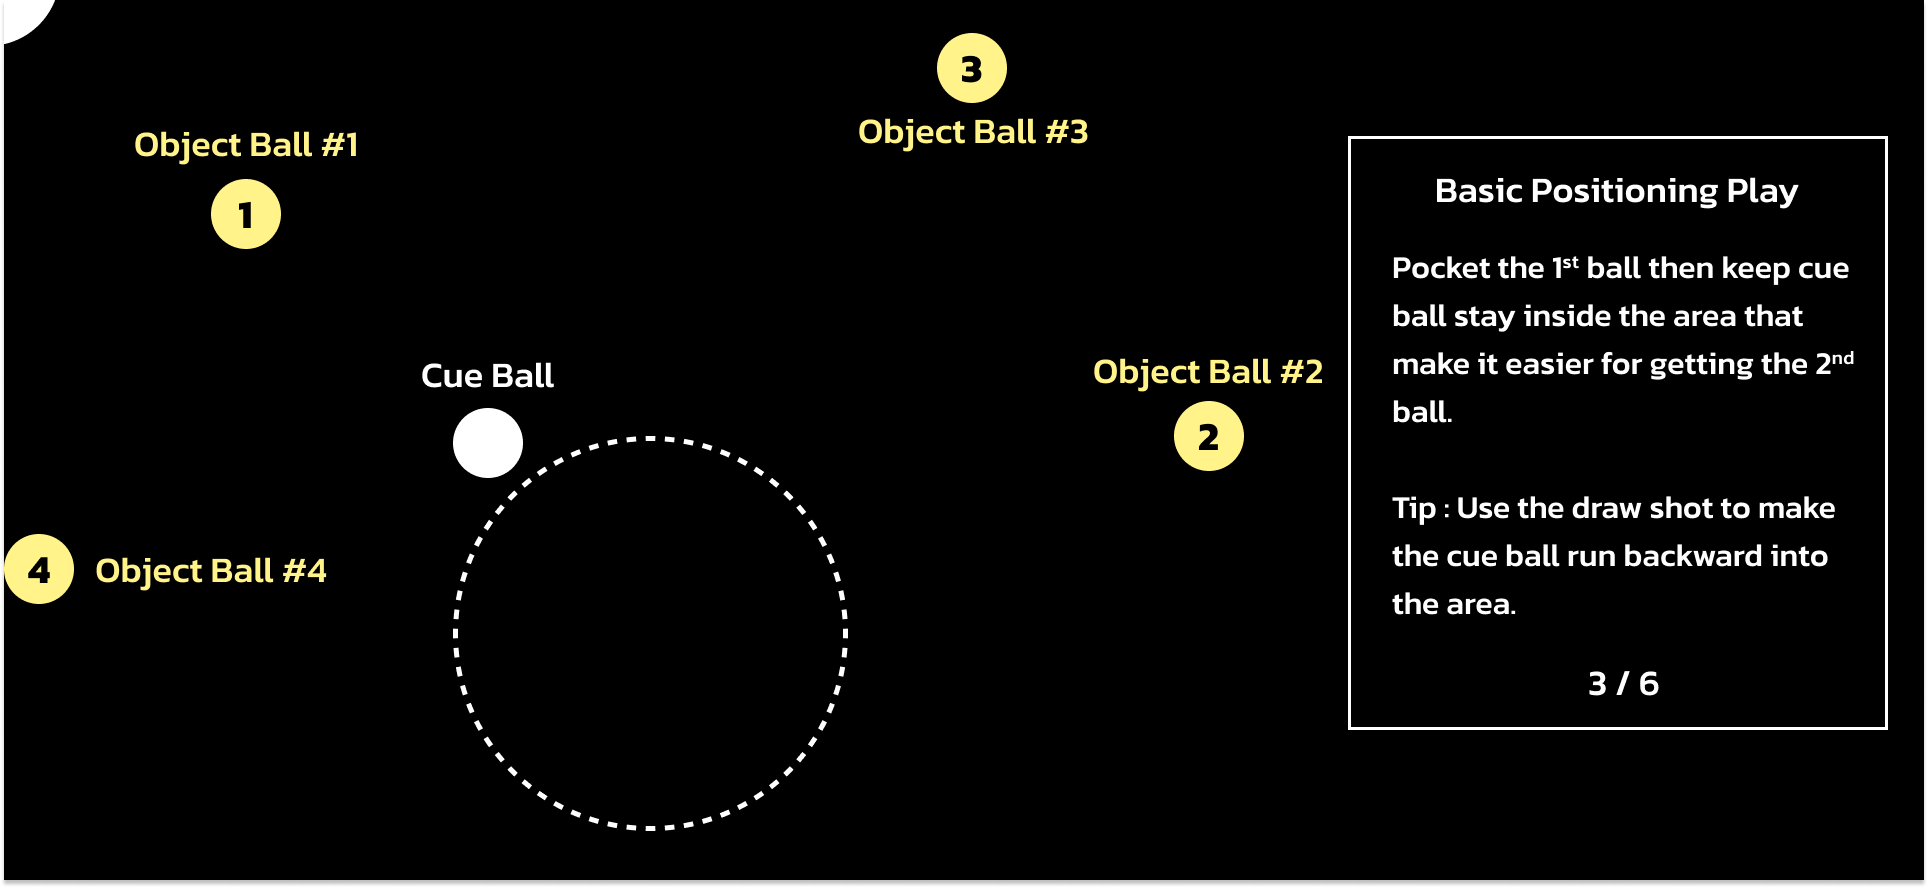
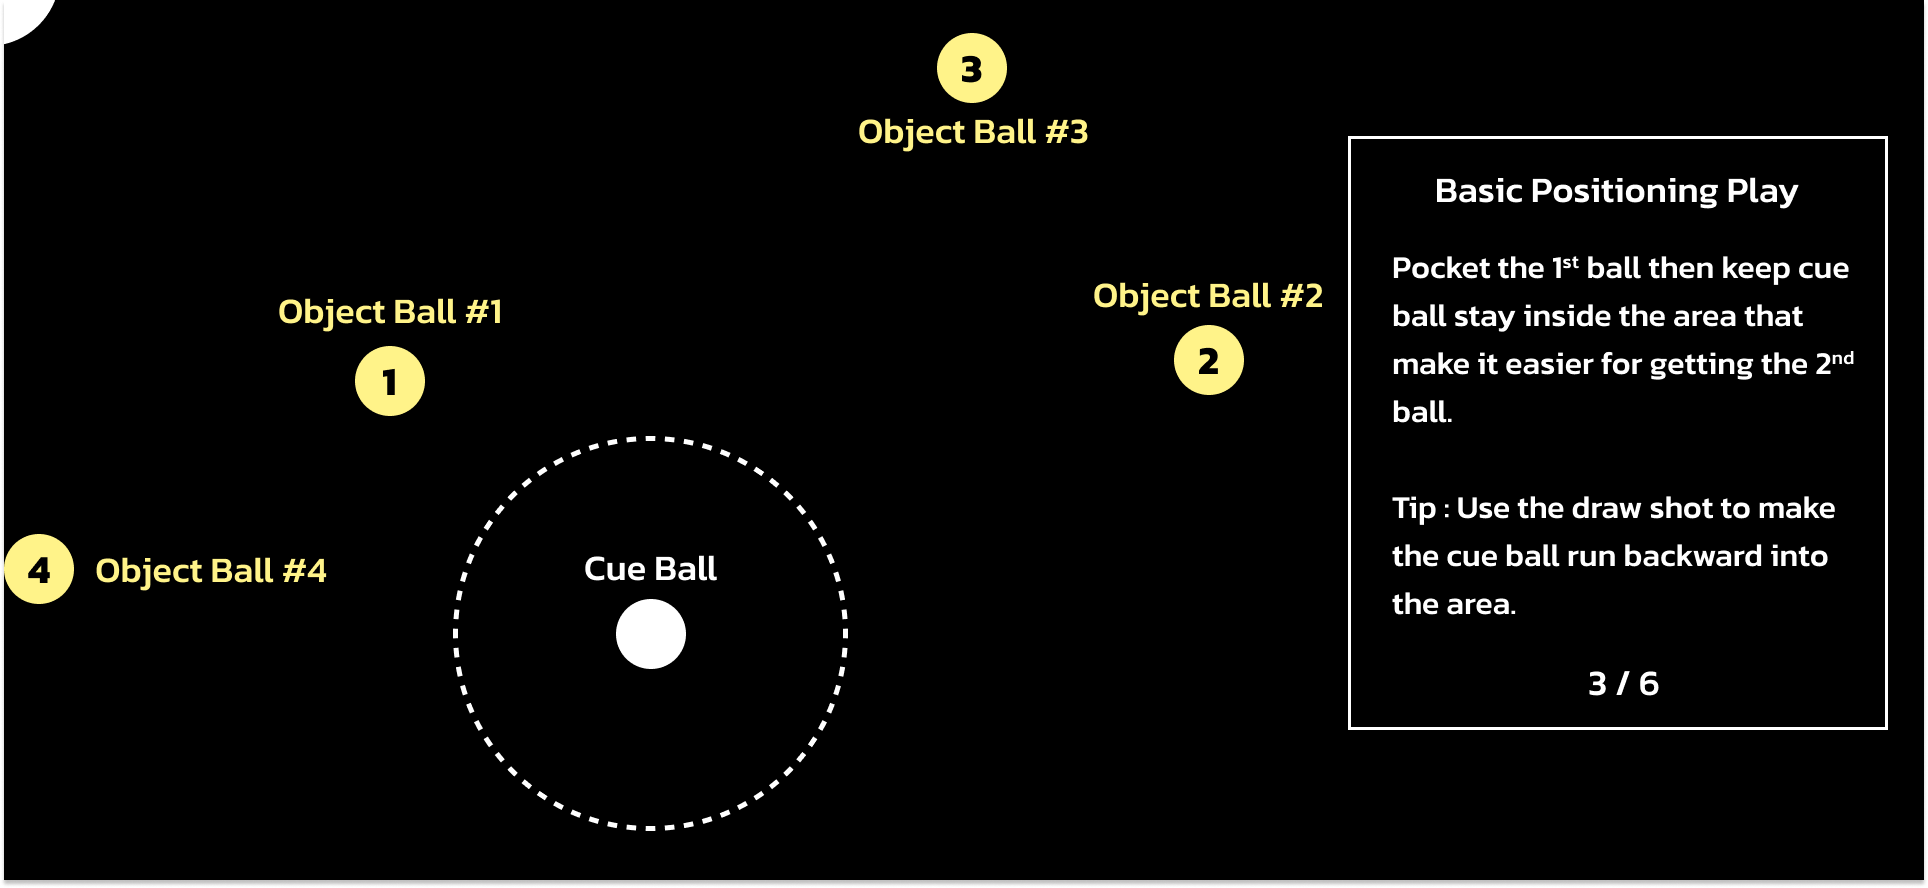
Update

diff --git a/Test_Perspective/Done_jaaaa.py b/Test_Perspective/Done_jaaaa.py
@@ -810,12 +810,12 @@ while True:
             print('UpdatedBallTablePos = ', updatedBallTablePos)
             print('BallProbs = ', ballProbs)
             if (timeTrialState == 'Playing') and (timeTrialMainBall in updatedBall) :
-                if math.sqrt(pow((abs(int(updatedBallTablePos[updatedBall.index(timeTrialMainBall)][0]) - int(prevWhiteX))), 2) + pow(abs(int(updatedBallTablePos[updatedBall.index(timeTrialMainBall)][1]) - int(prevWhiteY)), 2)) >= 200 :
+                if math.sqrt(pow((abs(int(updatedBallTablePos[updatedBall.index(timeTrialMainBall)][0]) - int(prevWhiteX))), 2) + pow(abs(int(updatedBallTablePos[updatedBall.index(timeTrialMainBall)][1]) - int(prevWhiteY)), 2)) >= 50 :
                     print("White Stop")
                     if ballCheckingStartTime == 0 :
                         ballCheckingStartTime = time.time()
 
-                    if time.time() - ballCheckingStartTime > 2:
+                    if time.time() - ballCheckingStartTime > 4:
                         if 'Red' not in updatedBall :
                             timeTrialScore += 50
                         else:
@@ -826,6 +826,11 @@ while True:
                         objectY = random.randint(20, 780)
                         ballCheckingStartTime = 0
                         timeTrialState = 'Positioning'
+            elif (timeTrialState == 'Playing') and (timeTrialMainBall not in updatedBall) :
+                if time.time() - ballCheckingStartTime > 4:
+                        timeTrialScore -= 50
+                        ballCheckingStartTime = 0
+                        timeTrialState = 'WhiteFailed'
         else :
             print("Moving")
 
@@ -857,6 +862,37 @@ while True:
                 objectX = random.randint(20, 1900)
                 objectY = random.randint(20, 780)
                 timeTrialState = 'Positioning'
+        elif timeTrialState == 'WhiteFailed' :
+            print('WhiteFailed')
+            cv2.circle(mac, (970, 440), 35, (255, 255, 255), 5)
+
+            explanTextSize, explanTextBaseline = cv2.getTextSize(
+                'Place cue ball inside the circle.', cv2.FONT_HERSHEY_SIMPLEX, 1.5, 3)
+
+            cv2.putText(mac, 'Place cue ball inside the circle.', (970 - int((explanTextSize[0])/2), 550), cv2.FONT_HERSHEY_SIMPLEX,
+                    1.5, (255, 255, 255), 3, cv2.LINE_AA)
+            
+            timeTextSize, timeTextBaseline = cv2.getTextSize(f'Time : {timeTrialMaxTime - int(time.time() - timeTrialStartTime)}', cv2.FONT_HERSHEY_SIMPLEX, 3.0, 5)
+            scoreTextSize, scoreTextBaseline = cv2.getTextSize(f'Score : {timeTrialScore}', cv2.FONT_HERSHEY_SIMPLEX, 3.0, 5)
+
+            cv2.putText(mac, f'Time : {timeTrialMaxTime - int(time.time() - timeTrialStartTime)}', (970 - int((timeTextSize[0])/2), 100), cv2.FONT_HERSHEY_SIMPLEX, 
+                    3.0, (255, 255, 255), 5, cv2.LINE_AA)
+            cv2.putText(mac, f'Score : {timeTrialScore}', (970 - int((scoreTextSize[0])/2), 200), cv2.FONT_HERSHEY_SIMPLEX, 
+                    3.0, (255, 255, 255), 5, cv2.LINE_AA)
+                
+            if (timeTrialMaxTime - int(time.time() - timeTrialStartTime)) == 0 :
+                    timeTrialState = 'TimeOver'
+            
+            print(timeTrialMainBall)
+            if timeTrialMainBall in updatedBall :
+                print('White : ', updatedBallTablePos[updatedBall.index(timeTrialMainBall)])
+                if (updatedBallTablePos[updatedBall.index(timeTrialMainBall)][0] >= 935 and updatedBallTablePos[updatedBall.index(timeTrialMainBall)][0] <= 1005 and
+                    updatedBallTablePos[updatedBall.index(timeTrialMainBall)][1] >= 405 and updatedBallTablePos[updatedBall.index(timeTrialMainBall)][1] <= 475) :
+                    prevWhiteX = updatedBallTablePos[updatedBall.index(timeTrialMainBall)][0]
+                    prevWhiteY = updatedBallTablePos[updatedBall.index(timeTrialMainBall)][1]
+                    objectX = random.randint(20, 1900)
+                    objectY = random.randint(20, 780)
+                    timeTrialState = 'Positioning'
         elif timeTrialState == 'Positioning' :
             print('Positioning')
             print('objectX', objectX)

diff --git a/BallDetection/BallDetectionLib.py b/BallDetection/BallDetectionLib.py
@@ -71,7 +71,7 @@ lowerColor = [
     np.array([20,150,50]), #Yellow
     np.array([110,200,125]), #Blue
     np.array([0,150,155]), #Red
-    np.array([110,215,150]), #Purple
+    np.array([140,215,150]), #Purple
     np.array([5,150,50]), #Orange
     np.array([95,100,100]), #Green
     np.array([0,100,50]), #Crimson
